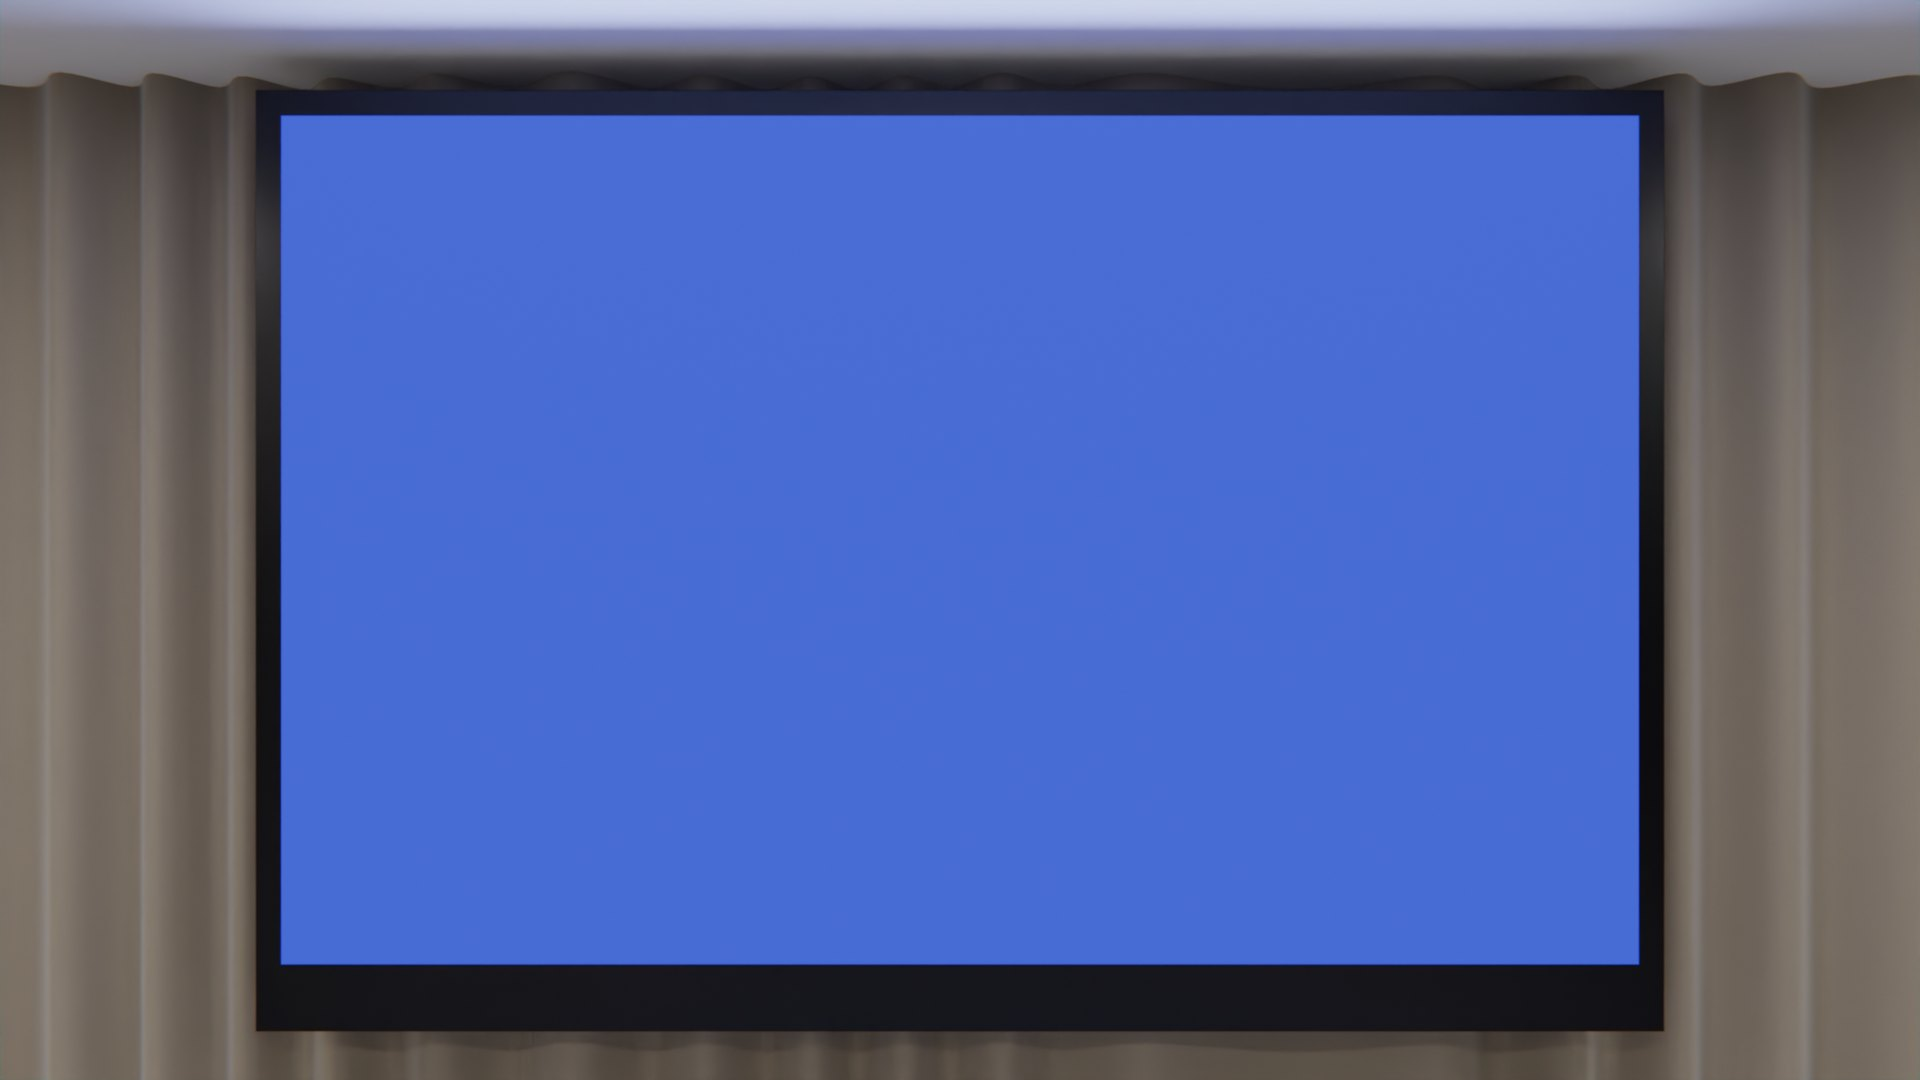
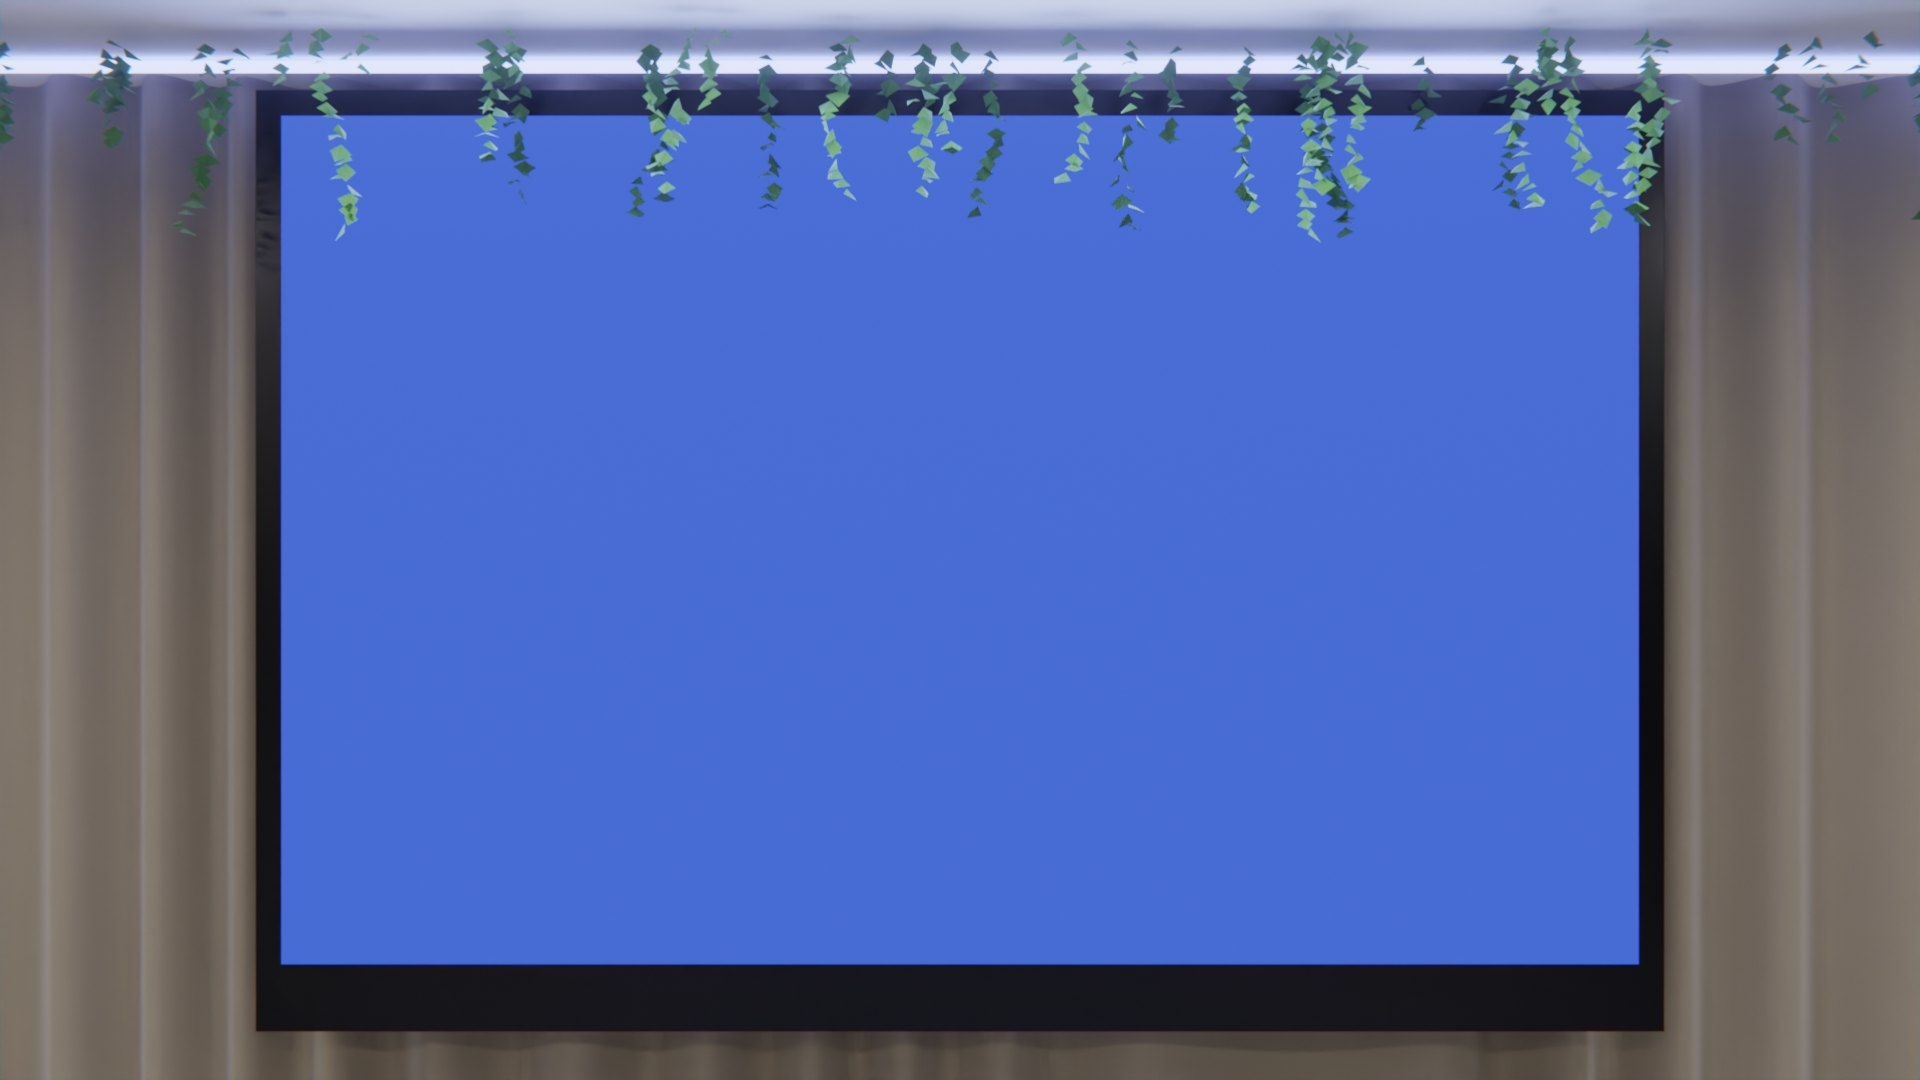
Cinema: review round 13; the auditorium looks like the photos
Near-black room with the screen as the light, small #DEVOXX at stage level with
dark space above it, padded high-back chairs, eye height of a seated adult.
Hall: a blue LED line and ivy above the screen. Door totem on the plain side of
the door, plate in brand orange. Page: the day opens on its first slot; phone talk
keeps 'Back to the programme' in a sticky footer; roomier phone list; '+11 more';
a lone talk's card never cuts its text; bigger talk text on laptops.

Changed region(s): [[0.0, 0.0, 1.0, 0.2139], [0.5625, 0.1833, 0.5938, 0.2139]]

diff --git a/site/cinema/cinema.css b/site/cinema/cinema.css
@@ -36,7 +36,7 @@ button, input, a { font: inherit; color: inherit; }
 .face.is-lcd::after { content: ""; position: absolute; inset: 0; pointer-events: none;
   background: linear-gradient(118deg, rgba(255, 255, 255, .07) 0%, rgba(255, 255, 255, .02) 34%, transparent 35%); }
 /* the cinema screen is projected: no edge, a soft falloff to the corners */
-.face.is-projected { background: radial-gradient(120% 110% at 50% 42%, #1E2B63 0%, #172256 60%, #111A48 100%); }
+.face.is-projected { background: radial-gradient(120% 110% at 50% 42%, #283A86 0%, #1E2C6C 60%, #18245C 100%); }
 .face.is-projected::after { content: ""; position: absolute; inset: 0; pointer-events: none; box-shadow: inset 0 0 70px 4px rgba(0, 0, 0, .3); }
 
 /* chrome outside the screens: small, quiet, fixed */
@@ -105,7 +105,7 @@ button, input, a { font: inherit; color: inherit; }
 .cards.is-packed > .card.is-now-wide { grid-column: 1 / -1; height: auto; min-height: 150px; }
 .cards.is-packed .card.is-now .title, .cards.is-packed .card.is-now-wide .title { -webkit-line-clamp: 3; }
 .cards.is-packed .card.is-now-wide .title { font-size: 26px; font-stretch: 110%; line-height: 1.12; }
-.card .why { font-size: 17px; line-height: 1.35; color: var(--muted); white-space: nowrap; overflow: hidden; text-overflow: ellipsis; flex: none; }
+.card .why { font-size: 17px; line-height: 1.35; color: var(--muted); flex: none; display: -webkit-box; -webkit-line-clamp: 2; -webkit-box-orient: vertical; overflow: hidden; }
 .card .why b { font-weight: 700; }
 .prog:not(.is-tall) .cards.scroller[aria-label="Search results"] > .card { height: auto; min-height: 172px; }
 .prog.is-tall .cards.scroller[aria-label="Search results"] > .card { height: auto; min-height: 0; }
@@ -137,16 +137,17 @@ button, input, a { font: inherit; color: inherit; }
 /* the totem: canvas 340 wide, one column */
 .prog.is-tall { gap: 12px; padding: 18px 16px 12px; }
 .prog.is-tall .prog-head { flex-direction: column; align-items: stretch; gap: 10px; }
-.prog.is-tall .brand { font-size: 25px; gap: 8px; }
+.prog.is-tall .brand { font-size: 25px; gap: 2px 8px; flex-wrap: wrap; white-space: normal; }
 .prog.is-tall .brand small { font-size: 13px; }
 .prog.is-tall .search { width: 100%; flex: none; margin-left: 0; font-size: 16px; padding: 9px 12px; border-radius: 9px; }
 .prog.is-tall .nav { gap: 12px; }
 .prog.is-tall .days .pill { font-size: 14px; padding: 6px 8px; }
 .prog.is-tall .days { gap: 5px; }
 .prog.is-tall .nav .strip { flex-wrap: nowrap; overflow-x: auto; padding: 9px; margin: -9px; }
-.prog.is-tall .pill { font-size: 15px; padding: 7px 11px; border-radius: 8px; border-width: 1.5px; }
+.prog.is-tall .pill { font-size: 14px; padding: 6px 8px; border-radius: 8px; border-width: 1.5px; }
+.prog.is-tall .times .pill { font-size: 14px; padding: 6px 7px; }
 .prog.is-tall .slot { gap: 8px; }
-.prog.is-tall .slot-head b { font-size: 26px; }
+.prog.is-tall .slot-head b { font-size: 22px; }
 .prog.is-tall .slot-head span { font-size: 13px; }
 .prog.is-tall .cards { grid-template-columns: minmax(0, 1fr); grid-auto-rows: max-content; gap: 8px; }
 .prog.is-tall .card { padding: 10px 12px 11px; gap: 4px; border-radius: 10px; }
@@ -165,13 +166,13 @@ button, input, a { font: inherit; color: inherit; }
 /* ---------- the talk: cinema canvas 1600 wide (laptop), 360 wide (phone) ---------- */
 .talk { display: grid; grid-template-columns: minmax(0, 1fr) minmax(0, 1.1fr); gap: 44px; padding: 34px 46px 26px; }
 .talk-main, .talk-side { display: flex; flex-direction: column; min-height: 0; min-width: 0; }
-.meta { font-size: 20px; font-weight: 600; color: var(--orange); }
+.meta { font-size: 22px; font-weight: 600; color: var(--orange); }
 .talk h2 { margin-top: 12px; font-weight: 800; font-stretch: 110%; font-size: var(--title, 46px); line-height: 1.05; letter-spacing: -.01em; text-wrap: balance; }
-.who-l { margin-top: 12px; font-size: 19px; color: var(--muted); }
-.verdict { margin-top: 14px; font-size: 19px; line-height: 1.4; color: var(--ink); max-width: 38em; padding-left: 14px; border-left: 3px solid var(--orange); }
+.who-l { margin-top: 12px; font-size: 21px; color: var(--muted); }
+.verdict { margin-top: 14px; font-size: 20px; line-height: 1.4; color: var(--ink); max-width: 38em; padding-left: 14px; border-left: 3px solid var(--orange); }
 .verdict b { color: var(--orange); font-weight: 700; }
-.talk.is-tall .verdict { font-size: 14px; margin-top: 4px; }
-.tldr { margin-top: 18px; font-size: 20px; line-height: 1.45; max-width: 36em; display: -webkit-box; -webkit-line-clamp: 4; -webkit-box-orient: vertical; overflow: hidden; }
+.talk.is-tall .verdict { font-size: 14px; margin-top: 8px; }
+.tldr { margin-top: 14px; font-size: 21px; line-height: 1.42; max-width: 36em; display: -webkit-box; -webkit-line-clamp: 3; -webkit-box-orient: vertical; overflow: hidden; }
 .actions { display: flex; gap: 12px; flex-wrap: wrap; align-items: center; margin-top: 18px; }
 .btn { display: inline-flex; align-items: center; border-radius: 10px; padding: 11px 18px; font-size: 18px; font-weight: 700; text-decoration: none;
   border: 2px solid var(--line); background: var(--panel); color: var(--ink); white-space: nowrap; }
@@ -179,9 +180,9 @@ button, input, a { font: inherit; color: inherit; }
 .btn.is-main { background: var(--orange); border-color: var(--orange); color: var(--deep); }
 .btn.is-main:hover { filter: brightness(1.07); }
 .tabs { display: flex; gap: 8px; flex-wrap: wrap; margin-bottom: 14px; }
-.tabs .pill { font-size: 19px; padding: 6px 11px; }
+.tabs .pill { font-size: 20px; padding: 6px 11px; }
 .tabs { flex-wrap: nowrap; }
-.pane { flex: 1; font-size: 19px; line-height: 1.5; padding-right: 10px; }
+.pane { flex: 1; font-size: 21px; line-height: 1.45; padding-right: 10px; }
 .pane ul, .pane ol { margin: 0; padding-left: 1.1em; display: grid; gap: 10px; }
 .pane li::marker { color: var(--orange); }
 .pane p { margin: 0 0 12px; }
@@ -229,8 +230,9 @@ button, input, a { font: inherit; color: inherit; }
 @media (prefers-reduced-motion: reduce) { .face { animation: none; } .card { transition: none; } }
 
 /* a lone talk's card grows to fit its summary; nothing is cut */
-.prog .cards.is-packed > .card.is-now-wide { height: auto; min-height: 0; }
-.prog .cards.is-packed > .card.is-now-wide .gist { -webkit-line-clamp: 2; padding-bottom: 2px; }
+.prog .cards.is-packed > .card.is-now-wide { height: auto; min-height: 0; overflow: visible; }   /* overflow:hidden would let the grid squash it */
+.prog.is-tall .cards.is-packed .card.is-now-wide .title { -webkit-line-clamp: unset; display: block; }
+.prog .cards.is-packed > .card.is-now-wide .gist { display: block; white-space: nowrap; overflow: hidden; text-overflow: ellipsis; }
 
 /* phone talk: one scrolling page, actions near the top, the tabs wrap and stick */
 .talk.is-tall { overflow-y: auto; scrollbar-width: none; }
@@ -241,4 +243,5 @@ button, input, a { font: inherit; color: inherit; }
 .talk.is-tall .pane.more-b { mask-image: none; }
 .talk.is-tall .tabs { position: sticky; top: -22px; z-index: 1; flex-wrap: wrap; overflow: visible; background: var(--night); padding: 8px 0; margin: 0; }
 .talk.is-tall .tabs.more-r, .talk.is-tall .tabs.more-l { mask-image: none; }
-.talk.is-tall .foot { margin-top: 18px; }
+.talk.is-tall .foot { position: sticky; bottom: -16px; margin: 18px -18px -16px -22px; padding: 10px 18px 14px 22px; background: var(--night); }
+.talk.is-tall .foot button { background: none; border: 0; padding: 0; font-size: 14px; font-weight: 700; color: var(--ink); text-decoration: underline; text-underline-offset: 3px; }

diff --git a/site/cinema/cinema.js b/site/cinema/cinema.js
@@ -219,7 +219,7 @@ const days = [...new Set(talks.filter((t) => t.start).map((t) => dayKey(t.start)
 const startsOn = (d) => [...new Set(talks.filter((t) => t.start && dayKey(t.start) === d).map((t) => t.start))].sort();
 const inSlot = (s) => talks.filter((t) => t.start === s).sort((a, b) => (roomNo(a) || 99) - (roomNo(b) || 99));
 let day = days.includes("2026-10-07") ? "2026-10-07" : days[0];
-let slot = startsOn(day).find((s) => inSlot(s).length >= 6) || startsOn(day)[0];
+let slot = startsOn(day)[0];                                   // the day from its start
 let query = "";
 const blob = (t) => [t.title, ...t.speakers.map((s) => s.name), t.room, t.track, t.s && t.s.tldr, ...((t.s && t.s.tech) || []), ...(t.keywords || [])]
   .join(" ").toLowerCase();
@@ -237,7 +237,7 @@ function why(t, terms) {
     if (name === "Mentions" || name === "Topics" || name === "Speaker") {        // lists: the matching item first, then whole items
       const items = text.split(/,\s*/), hit = items.find((x) => x.toLowerCase().includes(w));
       const more = items.length - 1;
-      return el("span", { class: "why" }, el("b", { text: `${name}: ` }), el("mark", { text: hit }), more > 0 && name !== "Speaker" ? ` +${more} more` : "");
+      return el("span", { class: "why" }, el("b", { text: `${name}: ` }), el("mark", { text: hit }), more > 0 && name !== "Speaker" ? `\u00a0+${more}\u00a0more` : "");
     }
     const word = text.slice(i).match(/^\S+/)[0].replace(/[,.;:]$/, "");    // the whole matched word, e.g. "Kotlin"
     return el("span", { class: "why" }, el("b", { text: `${name}: ` }), a > 0 ? "…" : "", el("mark", { text: word }), text.slice(i + word.length, i + word.length + 70));
@@ -308,7 +308,8 @@ function programme(tall) {
       }),
       fill.length ? el("div", { class: "later", text: "Later that day" }) : null, fill.map((t) => card(t, { when: "time" })));
     put(body, el("div", { class: "slot-head" }, el("b", { text: fTime.format(new Date(slot)) }),
-        el("span", { text: `${fDayLong.format(new Date(slot))}, ${here.length} ${here.length === 1 ? "session. Choose it to read its summary." : "sessions. Pick one to read its summary."}` })),
+        el("span", { text: tall ? `${here.length} ${here.length === 1 ? "session" : "sessions"}, ${fShort.format(new Date(slot))} Oct`
+          : `${fDayLong.format(new Date(slot))}, ${here.length} ${here.length === 1 ? "session. Choose it to read its summary." : "sessions. Pick one to read its summary."}` })),
       cards);
     rove(dayRow); rove(timeRow);
     requestAnimationFrame(() => { centre(timeRow); if (tall) centre(dayRow); for (const s of panel.querySelectorAll(".strip, .scroller")) watchScroll(s); });
@@ -377,7 +378,8 @@ function talkScreen(t, tall, onFloor, doorRoom = null) {
   fill(tabs[0][0]);
   return el("section", { class: `face talk ${onFloor && !tall ? "is-projected" : "is-lcd"}${tall ? " is-tall" : ""}`, "aria-label": t.title },
     main, el("div", { class: "talk-side" }, tabRow, pane),
-    tall ? el("div", { class: "foot", "aria-hidden": "true" }, el("span", {}, "DEVOX", el("span", { class: "x", text: "X" })), el("span", { text: "Belgium 2026" })) : null);
+    tall ? el("div", { class: "foot" }, el("span", { "aria-hidden": "true" }, "DEVOX", el("span", { class: "x", text: "X" })),
+      el("button", { type: "button", text: "Back to the programme", onclick: () => goHall() })) : null);
 }
 
 // ---------- moving between the hall and a seat ----------

diff --git a/scripts/blender/build_scene.py b/scripts/blender/build_scene.py
@@ -348,7 +348,7 @@ M = {
     "exitSign": emissive("exitSign", 0x18c060, 4.0),
     "downlight": emissive("downlight", 0xfff1e0, 25.0),
     "bezel": material("bezel", 0x0b0b0e, 0.28, 0.4, bevel=0.006),     # satin black, catching a highlight on its edge
-    "plate": material("plate", 0xf6921e, 0.5, emission=0xf08a1c, strength=2.2),   # backlit room-number plate
+    "plate": material("plate", 0xf6921e, 0.5, emission=0xe2701a, strength=0.8),   # backlit room-number plate, brand orange
     "plateText": material("plateText", 0x0a0f2e, 0.4),
     "foliage": material("foliage", 0x4a7a3a, 0.55, sheen=0.3),
     "tableFrame": material("tableFrame", 0x111114, 0.4, 0.6),
@@ -381,7 +381,7 @@ M = {
     "cove": emissive("cove", 0x8c9cff, 6.0),
     "panelLight": emissive("panelLight", 0xfff3e6, 8.0),       # the look of the panels; area lights below do the lighting      # about 4000 K, like the photos
     # the HTML is pinned over these in the browser: they glow the panels' navy, so their light on the room matches
-    "screen": emissive("screen", 0x1a265c, 1.6),      # the talk panel's own navy as seen through the camera; a light does the spill
+    "screen": emissive("screen", 0x24347a, 2.4),      # brighter than the room: it blooms past the masking; a light does the spill
     "masking": material("masking", 0x050507, 1.0, noise_bump=0.6),
     "programme": emissive("programme", 0x1d2c7a, 6.0),
     "schedule": emissive("schedule", 0x1c2a6b, 1.5),
@@ -708,7 +708,7 @@ for r in auditoriums:
     text_object(str(n), 2.6, (wall_x + face * 0.2, panel_y, FH + 1.85), (math.pi / 2, 0, math.pi / 2 if west else -math.pi / 2), M["white"], 0.02, 0.03)
     # the schedule totem in front of the room-number panel, facing the corridor (on phones, the talk is shown on it,
     # with the big numeral rising behind it)
-    sy = yc + side_y * 2.05          # just past the portal's jamb: the doorway on one side, the number panel on the other
+    sy = yc - side_y * 2.05          # just past the portal's jamb on the side away from the number panel
     sx = wall_x + face * 1.1
     tw, th, tz = 0.70, 1.42, FH + 1.45
     B.box("bezel", {"x": sx - 0.035, "y": sy - tw / 2 - 0.035, "w": 0.07, "h": tw + 0.07}, tz - th / 2 - 0.09, tz + th / 2 + 0.035)
@@ -751,11 +751,11 @@ for r in auditoriums:
 seat_me = bpy.data.meshes.new("seat-model")
 bm = bmesh.new()
 # a cinema seat, as in the photos: deep cushion, tall padded back with a rounded top, an armrest on one side
-for (sx, sy, sz, x, y, z, rz) in ((0.5, 0.52, 0.13, 0.02, 0, -0.06, 0), (0.14, 0.54, 0.86, -0.25, 0, 0.36, 0.13),
-                                  (0.44, 0.07, 0.06, -0.02, 0.3, 0.17, 0)):
+for (sx, sy, sz, x, y, z, rz) in ((0.5, 0.52, 0.14, 0.02, 0, -0.06, 0), (0.16, 0.54, 0.8, -0.25, 0, 0.34, 0.13),
+                                  (0.19, 0.5, 0.2, -0.31, 0, 0.7, 0.2), (0.46, 0.08, 0.07, -0.02, 0.3, 0.17, 0)):
     m = Matrix.Translation((x, y, z)) @ Matrix.Rotation(-rz, 4, "Y") @ Matrix.Diagonal((sx, sy, sz, 1))
     bmesh.ops.create_cube(bm, size=1.0, matrix=m)
-bmesh.ops.bevel(bm, geom=list(bm.edges), offset=0.045, segments=3, affect="EDGES")
+bmesh.ops.bevel(bm, geom=list(bm.edges), offset=0.06, segments=4, affect="EDGES")   # padded, not boxes
 bm.to_mesh(seat_me)
 bm.free()
 frame_me = bpy.data.meshes.new("seat-frame")
@@ -868,7 +868,7 @@ for n, door in doors.items():
             parts.append(ob)
         bpy.context.view_layer.update()
         w0, w1 = parts[0].dimensions.x, parts[1].dimensions.x
-        scale = min((y1w - y0w) / (w0 + w1 + 0.08), 1.5 / parts[0].dimensions.y)
+        scale = 0.65 * min((y1w - y0w) / (w0 + w1 + 0.08), 1.5 / parts[0].dimensions.y)   # small, at stage level, as in the photos
         total = (w0 + w1 + 0.08) * scale
         along = 1 if west else -1                # reading direction in world y, seen from the seats
         start = (y0w + y1w) / 2 - along * total / 2
@@ -1112,6 +1112,18 @@ def curtain(name, x0, x1, y, z1, pleat=0.36, amp=0.065, face=-1):
 
 
 curtain("curtain-north", hall["x"] + 0.2, hall["x"] + hall["w"] - 6.9, NORTH, HALL_CEIL + 0.05)
+# above the screen, as along the coffer: a blue LED line at the curtain head and ivy trailing from the ceiling
+B.box("cove", {"x": hall["x"] + 0.2, "y": NORTH - 0.32, "w": hall["w"] - 7.1, "h": 0.03}, HALL_CEIL - 0.035, HALL_CEIL - 0.01)
+for gx in [SX + k * 0.9 for k in range(-6, 7)]:
+    for _ in range(9):
+        x, y, z = gx + rng.uniform(-0.45, 0.45), NORTH - 0.55 + rng.uniform(-0.12, 0.12), HALL_CEIL - 0.01
+        for _ in range(int(rng.uniform(0.1, 0.55) ** 1.3 / 0.025) + 2):
+            x, y, z = x + rng.uniform(-0.02, 0.02), y + rng.uniform(-0.015, 0.015), z - 0.025
+            u = Vector((rng.uniform(-1, 1), rng.uniform(-1, 1), rng.uniform(-1.6, -0.2))).normalized()
+            v = u.cross(Vector((0, 0, 1))).normalized() if abs(u.z) < 0.98 else Vector((1, 0, 0))
+            c, a_, b_ = Vector((x, y, z)), 0.045 * rng.uniform(0.7, 1.25), 0.026 * rng.uniform(0.7, 1.25)
+            fold = u.cross(v) * b_ * 0.35
+            B.mesh("foliage", [c, c + u * a_ * 0.35 + v * b_ + fold, c + u * a_, c + u * a_ * 0.35 - v * b_ + fold], [(0, 1, 2), (0, 2, 3)])
 # divider curtains drawn back against the columns away from the middle aisle
 for i, o in enumerate(venue["obstacles"]):
     b = o["bounds"]
@@ -1278,13 +1290,13 @@ if _room:
     for (hx, hy, hz, rn) in house_spots:
         if rn == args.room:
             li = bpy.data.lights.new(f"house-{hx:.1f}-{hy:.1f}", "SPOT")
-            li.energy, li.spot_size, li.spot_blend, li.color = 300, math.radians(44), 0.4, (1.0, 0.93, 0.85)   # house lights down
+            li.energy, li.spot_size, li.spot_blend, li.color = 90, math.radians(44), 0.4, (1.0, 0.93, 0.85)   # house lights down
             so = bpy.data.objects.new(li.name, li)
             so.location = (hx, hy, hz)
             scene.collection.objects.link(so)
     if args.room in screens:                                   # the projection's light on the room, from the screen (unseen)
         scr_ = screens[args.room]
-        ob = area("screen-spill", (scr_["x"] + (0.25 if scr_["west"] else -0.25), scr_["y"], scr_["z"]), 1.0, 1300, (0.42, 0.52, 1.0),
+        ob = area("screen-spill", (scr_["x"] + (0.25 if scr_["west"] else -0.25), scr_["y"], scr_["z"]), 1.0, 1100, (0.42, 0.52, 1.0),
                   rot=(0, -math.pi / 2 if scr_["west"] else math.pi / 2, 0))     # facing into the room
         ob.data.shape, ob.data.size, ob.data.size_y = "RECTANGLE", scr_["h"], scr_["w"]
         ob.visible_camera = False
@@ -1299,7 +1311,7 @@ if _room:
     for (lx, ly, lz, tw, rn) in truss_lamps:                 # the truss lamps glare out over the seats
         if rn == args.room:
             li = bpy.data.lights.new(f"truss-{ly:.1f}", "SPOT")
-            li.energy, li.spot_size, li.spot_blend, li.color = 3000, math.radians(50), 0.3, (0.95, 0.96, 1.0)
+            li.energy, li.spot_size, li.spot_blend, li.color = 1200, math.radians(50), 0.3, (0.95, 0.96, 1.0)
             so = bpy.data.objects.new(li.name, li)
             so.location = (lx + tw * 0.05, ly, lz)
             so.rotation_euler = Vector((tw, _room["y"] + _room["h"] / 2 - ly, -0.45)).to_track_quat("-Z", "Y").to_euler()
@@ -1348,7 +1360,7 @@ def seat_for(n, fov=52):
     # the right distance, near the middle, and eyes level with the screen's middle so the talk isn't keystoned
     best = min(seats, key=lambda s: abs(abs(s["bounds"]["x"] + s["bounds"]["w"] / 2 - scr["x"]) - want) +
                abs(s["bounds"]["y"] + s["bounds"]["h"] / 2 - scr["y"]) * 0.6 + abs(FH + s["height"] + 0.8 - (scr["z"] - scr["h"] / 2 + 2.2)) * 2.0)
-    seat = (best["bounds"]["x"] + best["bounds"]["w"] / 2, best["bounds"]["y"] + best["bounds"]["h"] / 2, FH + best["height"] + 0.8)
+    seat = (best["bounds"]["x"] + best["bounds"]["w"] / 2, best["bounds"]["y"] + best["bounds"]["h"] / 2, FH + best["height"] + 0.95)
     return seat, (scr["x"], seat[1], scr["z"]), fov, seats
 
 
